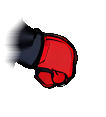
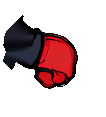
What a moved head reveals is the back of its hood, not a fade
The owner's two reports, "a blurry section revealed when the head stretches
out of its socket" and "blur on the hair in the head-on view", were both the
painted margin. Every part's margin faded to nothing over its last fifteen
pixels, so a head that slid or tilted showed a soft smear of collar; and the
head-on hair's margin had grown under the head-on drawing's own scarf, which
the bake discards, so over the turned drawing it showed as grey and dark red
streaks beside the hair (4,041 of tuftsOn's 9,339 pixels were margin).

Bake changes (scripts/bake/cut.js, bake.js), then `npm run bake`:
- Margins are solid through all 28 px. A part that moves reveals paint.
- Two synthesized parts, hood (z 5.5, turned face) and hoodOn (z 5.6,
  head-on face): the head's own footprint, eye sockets included, eroded a
  pixel, in one flat colour (the median of the head's surface darkened to
  60%), still on the hips behind the head, no shadow. Fully covered at rest;
  a head that slides or rolls reveals a dark crescent of hood.
- cutParts takes `keep`: the head-on cut unlabels the drawing's scarf, body
  and tails before extraction, so the head-on pieces' margins grow only
  under each other.

Model checks: 15 parts; each hood is its head's footprint in one colour,
with none of it outside the head, behind the head and in front of the wrap,
on the hips with no shadow. Reassembly of the committed PNGs is 0.038%
wrong (was 0.03%); the bake reproduces byte for byte.
[…]

Changed region(s): [[0.0283, 0.1282, 0.2547, 0.6154]]

diff --git a/scripts/bake/bake.js b/scripts/bake/bake.js
@@ -16,12 +16,14 @@ const MIN_SHARD = 40;
 
 const EYES = new Set(['eyeNear', 'eyeFar', 'eyeNearOn', 'eyeFarOn']);
 const FAR_EYES = new Set(['eyeFar', 'eyeFarOn']);
-const TURNED_FACE = new Set(['head', 'tufts', 'eyeNear', 'eyeFar']);
-const HEADON_FACE = new Set(['headOn', 'tuftsOn', 'eyeNearOn', 'eyeFarOn']);
+const TURNED_FACE = new Set(['head', 'tufts', 'eyeNear', 'eyeFar', 'hood']);
+const HEADON_FACE = new Set(['headOn', 'tuftsOn', 'eyeNearOn', 'eyeFarOn', 'hoodOn']);
+/** What the head-on drawing contributes; its margins grow under these alone. */
+const HEADON_KEEP = ['head', 'tufts', 'eyes', 'eyeNear', 'eyeFar'];
 const HEADON_OF = { head: 'headOn', tufts: 'tuftsOn', eyeNear: 'eyeNearOn', eyeFar: 'eyeFarOn' };
 const SHADOWS = new Set(['body', 'armLeft', 'armRight', 'tufts', 'head', 'wrap', 'tuftsOn', 'headOn']);
 const ARMS = new Set(['armLeft', 'armRight']);
-const STILL = new Set(['body', 'wrap', 'tails']);
+const STILL = new Set(['body', 'wrap', 'tails', 'hood', 'hoodOn']);
 
 export function loadImage(src) {
   return new Promise((resolve, reject) => {
@@ -62,6 +64,7 @@ export async function bakeModel({ artwork, headOn, minShard = MIN_SHARD }) {
   const headPart = parts.find((p) => p.name === 'head');
   const headSpan = headPart ? spanOf(headPart, width, height)
     : { cx: markers.headX, cy: markers.headY, r: markers.headR };
+  if (headPart) parts.push(hoodOf(headPart, 'hood', headPart.z - 0.5));
 
   const records = parts.map((part) => describe(part, { width, height, aspect, markers, sockets, spine }));
   const textures = parts.map((part) => textureOf(part));
@@ -135,7 +138,7 @@ function describe(part, { width, height, markers, sockets, spine }) {
       face,
       shadow: SHADOWS.has(part.name),
       skinned,
-      follow: face ? 'full' : STILL.has(part.name) ? 'none' : 'radial',
+      follow: STILL.has(part.name) ? 'none' : face ? 'full' : 'radial',
     },
     ...socketOf(part, sockets, width, height, markers),
   };
@@ -200,7 +203,7 @@ function headOnFace(headOnImage, { width, height, markers, headSpan, minShard })
   const found = detectMarkers(readPixels(fixed.canvas));
   if (!found) return none('could not find a face in it');
   const m = { ...markers, ...found };
-  const cut = cutParts(fixed.canvas, m, { minShard });
+  const cut = cutParts(fixed.canvas, m, { minShard, keep: HEADON_KEEP });
   const head = cut.parts.find((p) => p.name === 'head');
   const eyes = cut.parts.filter((p) => EYES.has(p.name));
   if (!head || eyes.length < 2) {
@@ -218,9 +221,77 @@ function headOnFace(headOnImage, { width, height, markers, headSpan, minShard })
     if (!name) continue;
     parts.push({ ...part, name, z: part.z + 0.5, place });
   }
+  const headOnPiece = parts.find((p) => p.name === 'headOn');
+  parts.push(hoodOf(headOnPiece, 'hoodOn', headOnPiece.z - 0.9));
   return {
     note: `${parts.length} pieces, ${fixed.filled}px repaired, scaled ${place.k.toFixed(2)}x`,
     parts, sockets: cut.sockets, markers: m, filled: fixed.filled, scale: place.k,
+  };
+}
+
+/**
+ * The back of the hood: the head's own footprint in one flat colour, drawn
+ * still behind the head, so a head that slides or rolls reveals hood rather
+ * than the collar's edge. Eroded a pixel so none of it shows at rest.
+ */
+function hoodOf(head, name, z) {
+  const { w, h } = head;
+  const src = head.canvas.getContext('2d', { willReadFrequently: true }).getImageData(0, 0, w, h).data;
+  const drawn = (i) => src[i * 4 + 3] > 0 && !(head.margin && head.margin[i] > 0);
+  // The footprint is everything inside the drawn outline: the eye sockets
+  // (filled, but invented) count, the painted margin outside it does not.
+  // Flood the invented paint inward from the border; what it cannot reach is
+  // inside.
+  const outside = new Uint8Array(w * h);
+  const queue = new Int32Array(w * h);
+  let qh = 0;
+  let qt = 0;
+  const seed = (i) => { if (outside[i] || drawn(i)) return; outside[i] = 1; queue[qt++] = i; };
+  for (let x = 0; x < w; x++) { seed(x); seed((h - 1) * w + x); }
+  for (let y = 0; y < h; y++) { seed(y * w); seed(y * w + w - 1); }
+  while (qh < qt) {
+    const i = queue[qh++];
+    const x = i % w;
+    if (x > 0) seed(i - 1);
+    if (x < w - 1) seed(i + 1);
+    if (i >= w) seed(i - w);
+    if (i < w * (h - 1)) seed(i + w);
+  }
+  const real = (i) => src[i * 4 + 3] > 0 && !outside[i];
+  const r = [];
+  const g = [];
+  const b = [];
+  for (let i = 0; i < w * h; i++) {
+    if (!drawn(i) || src[i * 4 + 3] < 250) continue;
+    const lum = 0.299 * src[i * 4] + 0.587 * src[i * 4 + 1] + 0.114 * src[i * 4 + 2];
+    if (lum < 30) continue;
+    r.push(src[i * 4]);
+    g.push(src[i * 4 + 1]);
+    b.push(src[i * 4 + 2]);
+  }
+  // In shadow behind the head: the median of the surface, darkened.
+  const median = (a) => { a.sort((p, q) => p - q); return a[a.length >> 1] ?? 0; };
+  const colour = [median(r), median(g), median(b)].map((v) => Math.round(v * 0.6));
+  const out = new ImageData(w, h);
+  let pixels = 0;
+  for (let y = 1; y < h - 1; y++) {
+    for (let x = 1; x < w - 1; x++) {
+      const i = y * w + x;
+      if (!real(i) || !real(i - 1) || !real(i + 1) || !real(i - w) || !real(i + w)) continue;
+      out.data[i * 4] = colour[0];
+      out.data[i * 4 + 1] = colour[1];
+      out.data[i * 4 + 2] = colour[2];
+      out.data[i * 4 + 3] = src[i * 4 + 3];
+      pixels++;
+    }
+  }
+  const canvas = document.createElement('canvas');
+  canvas.width = w;
+  canvas.height = h;
+  canvas.getContext('2d').putImageData(out, 0, 0);
+  return {
+    name, z, joint: 'hips', canvas, margin: new Uint8Array(w * h),
+    x: head.x, y: head.y, w, h, inset: head.inset, pixels, place: head.place,
   };
 }
 

diff --git a/scripts/bake/cut.js b/scripts/bake/cut.js
@@ -57,6 +57,12 @@ export function cutParts(image, markers, opts = {}) {
 
   const sockets = [];
   const labels = labelPixels(src, markers, w, h, sockets, opts.minShard);
+  // Parts the caller discards are unlabelled before extraction, so the
+  // margins of the kept parts never grow under them.
+  if (opts.keep) {
+    const keep = new Set(opts.keep.map((name) => LABEL[name]));
+    for (let i = 0; i < labels.length; i++) if (!keep.has(labels[i])) labels[i] = LABEL.none;
+  }
 
   // Depth per label, so dilation knows which neighbours sit in front.
   const zByLabel = new Int32Array(16).fill(-1);
@@ -833,11 +839,8 @@ function extract(src, labels, name, w, h, zByLabel) {
         const b = i * 4;
         od[a] = od[b]; od[a + 1] = od[b + 1]; od[a + 2] = od[b + 2];
       }
-      /* Solid near the art, fading out toward the far edge. */
-      const solid = DILATE * 0.45;
-      od[a + 3] = step <= solid
-        ? 255
-        : Math.round(255 * Math.max(0, 1 - (step - solid) / (DILATE - solid)) ** 1.4);
+      /* Solid all the way out: a part that moves reveals paint, not a fade. */
+      od[a + 3] = 255;
       queue[tail++] = j;
     };
     if (x > 0) spread(i - 1);
